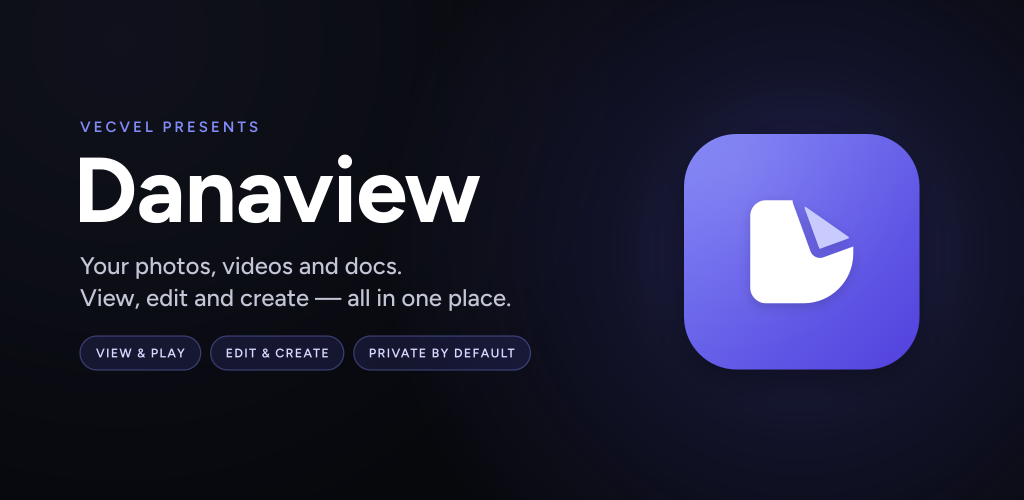
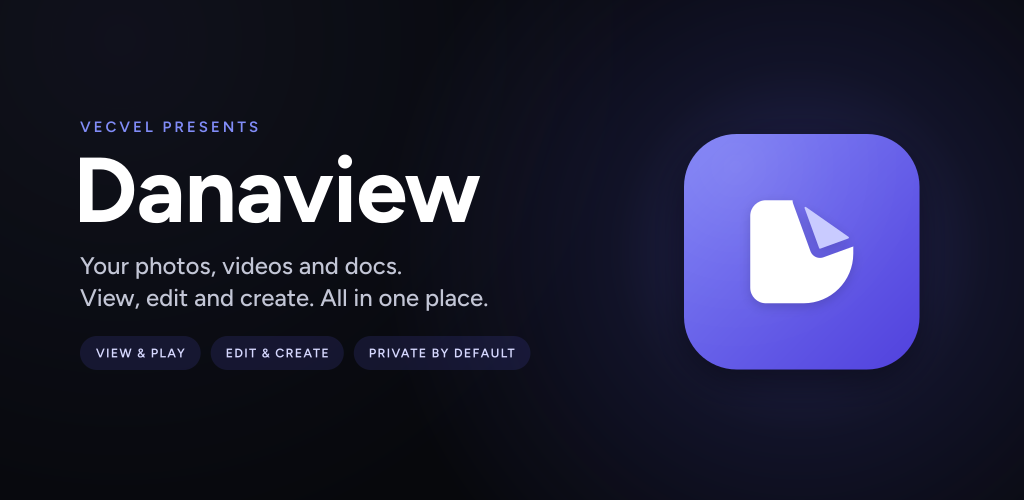
brand: regenerate the Play feature graphic without the em dash and pill borders

diff --git a/assets/branding/generate_brand.py b/assets/branding/generate_brand.py
@@ -503,7 +503,7 @@ def build_brand_sheet(tmp):
 # ---------------------------------------------------------------- store
 FEATURE_COPY = {
     "eyebrow": "VECVEL PRESENTS",
-    "tagline": ("Your photos, videos and docs.", "View, edit and create \u2014 all in one place."),
+    "tagline": ("Your photos, videos and docs.", "View, edit and create. All in one place."),
     "pills": ("VIEW &amp; PLAY", "EDIT &amp; CREATE", "PRIVATE BY DEFAULT"),
 }
 
@@ -544,8 +544,7 @@ def feature_graphic_svg():
     for label in FEATURE_COPY["pills"]:
         r = figtree(600).layout(label.replace("&amp;", "&"), size, 0.1)
         w = r.ink_width + 2 * pad
-        P.append(f'<rect x="{f(px)}" y="{top}" width="{f(w)}" height="{ph}" rx="{ph / 2}" fill="#5E60EE" fill-opacity="0.14" '
-                 f'stroke="#818CF8" stroke-opacity="0.38" stroke-width="1.2"/>')
+        P.append(f'<rect x="{f(px)}" y="{top}" width="{f(w)}" height="{ph}" rx="{ph / 2}" fill="#5E60EE" fill-opacity="0.14"/>')
         cap = 0.7 * size
         P.append(f'<path d="{r.path(px + pad, top + ph / 2 + cap / 2, ink_left=True)}" fill="#D6D8FF"/>')
         px += w + gap

diff --git a/assets/branding/BRAND.md b/assets/branding/BRAND.md
@@ -64,7 +64,7 @@ Lockup construction, for a tile of side t (t = 128 in the files):
 
 ## Store graphics
 
-`store/feature_graphic.svg` is the source of the Google Play feature graphic (`android/fastlane/metadata/android/en-US/images/featureGraphic.png`, 1024 × 500, RGB without alpha). It has the master tile on the right with a soft indigo glow, and on the left the eyebrow "VECVEL PRESENTS", the outlined wordmark, the tagline "Your photos, videos and docs. View, edit and create — all in one place." and three pills: "VIEW & PLAY", "EDIT & CREATE" and "PRIVATE BY DEFAULT". All text is outlined. Important content stays at least 64 px from the edges and out of the centre-bottom (x 352 to 672, y 380 and below).
+`store/feature_graphic.svg` is the source of the Google Play feature graphic (`android/fastlane/metadata/android/en-US/images/featureGraphic.png`, 1024 × 500, RGB without alpha). It has the master tile on the right with a soft indigo glow, and on the left the eyebrow "VECVEL PRESENTS", the outlined wordmark, the tagline "Your photos, videos and docs. View, edit and create. All in one place." (no em dash) and three borderless pills: "VIEW & PLAY", "EDIT & CREATE" and "PRIVATE BY DEFAULT". All text is outlined. Important content stays at least 64 px from the edges and out of the centre-bottom (x 352 to 672, y 380 and below).
 
 The store screenshots were removed because they showed the old name and play icon. Each screenshots folder has a README: regenerate them as real captures of the current app before the store launch. The iOS `metadata`, `screenshots` and `mac_screenshots` lanes refuse to run while their folder has no images, because they upload with `overwrite_screenshots`.
 
